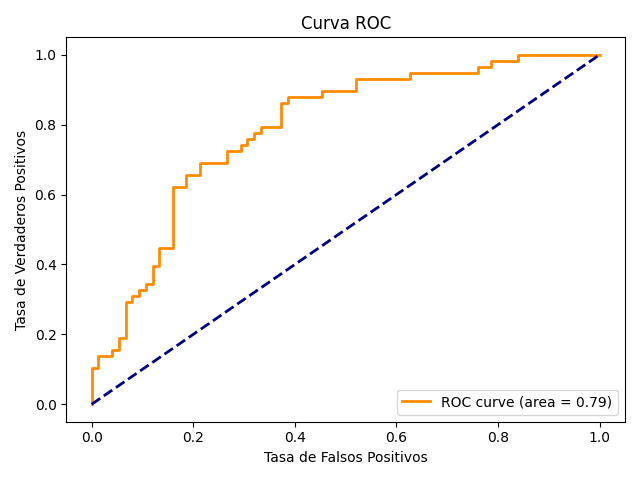
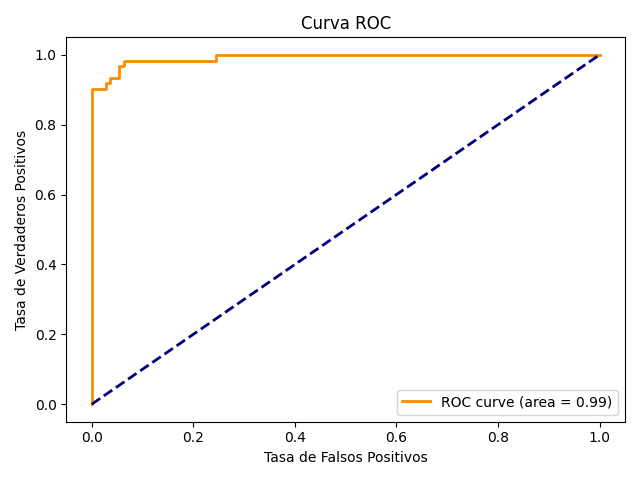
Dataset cancer

diff --git a/Regresiones/data/process_lr.py b/Regresiones/data/process_lr.py
@@ -14,13 +14,13 @@ import joblib
 import random
 import pandas as pd
 import matplotlib.pyplot as plt
+from sklearn.calibration import LabelEncoder
 from sklearn.metrics import accuracy_score, confusion_matrix, roc_curve, auc
 from sklearn.preprocessing import StandardScaler
 from sklearn.linear_model import LogisticRegression
 from sklearn.model_selection import train_test_split
-# Funcion para cargar los datos de cancer
 from ucimlrepo import fetch_ucirepo
-# Funcion para crear el directorio de salida si no existe
+
 def check_output_dir():
     base_dir = os.path.abspath(os.path.join(os.path.dirname(__file__), '..'))
     output_dir = os.path.join(base_dir, 'output')
@@ -30,85 +30,82 @@ def check_output_dir():
     return output_dir
 
 # Cargar el dataset de Breast Cancer Wisconsin (Diagnostic)
-dataset = fetch_ucirepo(id=17)  # 17 es el ID para este dataset
+def load_breast_cancer_data():
+    dataset = fetch_ucirepo(id=17)
+    
+    # Extraer características y etiquetas
+    X = dataset.data.features
+    y = dataset.data.targets
+    
+    # Convertir a DataFrame
+    data = pd.DataFrame(X)
+    data['target'] = y
+    
+    return data
 
-# Extraer características y etiquetas
-X = dataset.data.features
-y = dataset.data.targets
+def normalize_data(data):
+    scaler = StandardScaler()
+    # Normalizar todas las columnas excepto la última (target)
+    data_scaled = scaler.fit_transform(data.iloc[:, :-1])
+    norm_data = pd.DataFrame(data_scaled, columns=data.columns[:-1])
+    
+    # Codificar la variable objetivo (Hacerla binaria)
+    le = LabelEncoder()
+    norm_data['target'] = le.fit_transform(data['target'])
+    
+    return norm_data, le
 
-# Dataset de la UCI
-dataset = fetch_ucirepo(id=17)
-X = dataset.data.features
-y = dataset.data.targets
-
-# Convertimos a DataFrame para hacer el split
-data = pd.DataFrame(X, columns=dataset.variables)
-data['Y'] = y
-
-
-# Funcion para dividir los datos en entrenamiento y prueba
 def split_data(data, test_size):
     # Seleccionar 6 columnas aleatorias para entrenamiento y prueba
-    feature_columns = list(data.columns[:-1])  # Todas las columnas excepto 'Y'
+    feature_columns = list(data.columns[:-1])
     selected_columns = random.sample(feature_columns, 6)
     
     train_data, test_data = train_test_split(data, test_size=test_size)
     
     train_input = train_data[selected_columns]
-    train_output = train_data['Y']
+    train_output = train_data['target']
 
     test_input = test_data[selected_columns]
-    test_output = test_data['Y']
+    test_output = test_data['target']
 
     return train_input, train_output, test_input, test_output, selected_columns
 
-# Funcion para entrenar un modelo de regresion lineal
 def logistic_regression(train_input, train_output):
     model = LogisticRegression()
     model.fit(train_input, train_output)
     return model
 
-# Funcion para obtener el acurracy
 def get_accuracy(model, test_input, test_output):
     predictions = model.predict(test_input)
     return accuracy_score(test_output, predictions)
 
-# Funcion para obtener la matriz de confusion
 def get_confusion_matrix(model, test_input, test_output):
     predictions = model.predict(test_input)
     return confusion_matrix(test_output, predictions)
 
-#Funcion para guardar el modelo
 def save_model(model, output_dir):
     model_path = os.path.join(output_dir, 'logistic_regression_model.pkl')
     joblib.dump(model, model_path)
     print(f"Modelo guardado como '{model_path}'")
-    
-# Funcion para cargar el modelo
+
 def load_model(model_path):
     model = joblib.load(model_path)
     return model
 
-# Funcion de graficar la curva ROC
 def plot_roc_curve(model, test_input, test_output, output_dir):
-    # Obtener las probabilidades predichas para la clase positiva
     y_pred_proba = model.predict_proba(test_input)[:, 1]
-    
-    # Calcular la curva ROC
     fpr, tpr, _ = roc_curve(test_output, y_pred_proba)
     roc_auc = auc(fpr, tpr)
     
-    # Propiedades de la curva:
     plt.figure()
     plt.plot(fpr, tpr, color='darkorange', lw=2, label=f'ROC curve (area = {roc_auc:.2f})')
     plt.plot([0, 1], [0, 1], color='navy', lw=2, linestyle='--')
     plt.xlabel('Tasa de Falsos Positivos')
     plt.ylabel('Tasa de Verdaderos Positivos')
-    plt.title('Curva ROC') # Receiver Operating Characteristic
-    plt.legend(loc='lower right') # ubicacion de la leyenda = esquina inferior derecha
+    plt.title('Curva ROC')
+    plt.legend(loc='lower right')
     plt.tight_layout()
 
-    # Guardar la curva ROC
     plt.savefig(os.path.join(output_dir, 'roc_curve.png'))
     plt.close()
     print("Curva ROC guardada como 'roc_curve.png'")

diff --git a/Regresiones/data/main_lr.py b/Regresiones/data/main_lr.py
@@ -4,15 +4,16 @@
 
 import process_lr as proc
 
-# Ruta al archivo CSV
-file_path = r'C:\Users\bryan\Documents\ITQ\Semestre 8\Ciencia de Datos\DS env\Programs\Regresiones\data\dataset\wdbc.data'
+# Cargar el dataset de cáncer de mama
+dataset = proc.load_breast_cancer_data()
 
-dataset = proc.load_diabetes_data(file_path)
-norm_dataset = proc.normalize_diabetes_data(dataset)
+# Normalizar los datos y codificar la variable objetivo
+norm_dataset, label_encoder = proc.normalize_data(dataset)
 
+# Dividir los datos
 training_input, training_output, test_input, test_output, selected_columns = proc.split_data(norm_dataset, 0.3)
 
-# Entrenar el modelo de regresión logística
+# Entrenar el modelo
 model = proc.logistic_regression(training_input, training_output)
 
 # Calcular el accuracy
@@ -32,3 +33,6 @@ proc.plot_roc_curve(model, test_input, test_output, output_dir)
 
 print(f"Forma de los datos de entrenamiento: {training_input.shape}")
 print(f"Distribución de la variable objetivo: {training_output.value_counts(normalize=True)}")
+
+# Imprimir las clases codificadas
+print(f"Clases codificadas: {dict(zip(label_encoder.classes_, label_encoder.transform(label_encoder.classes_)))}")
